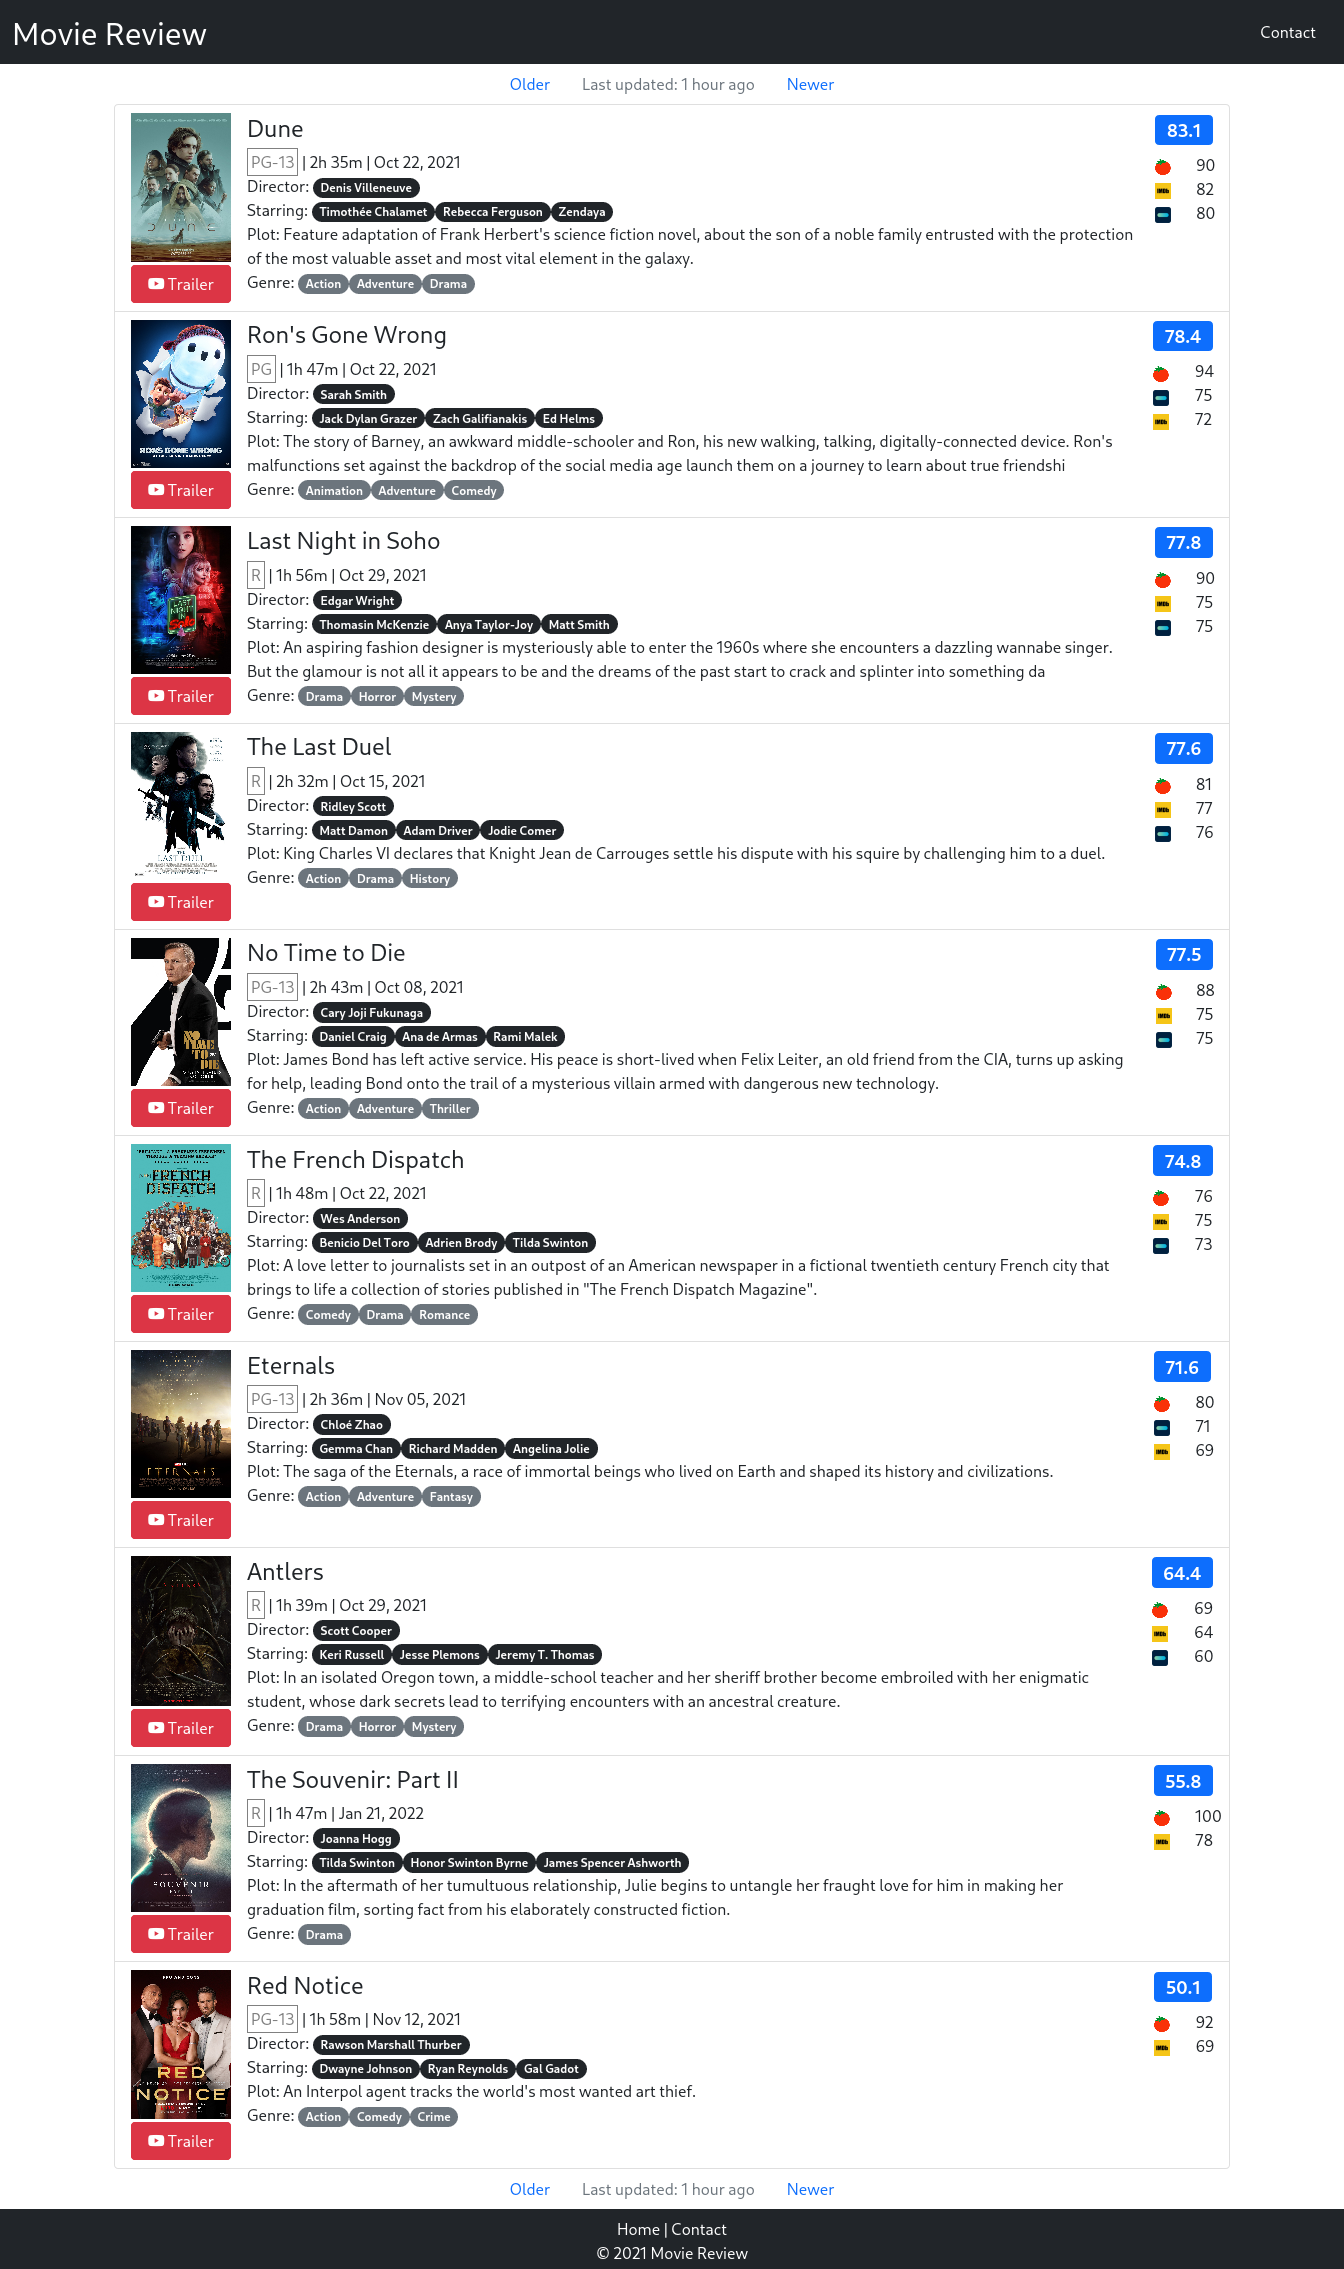
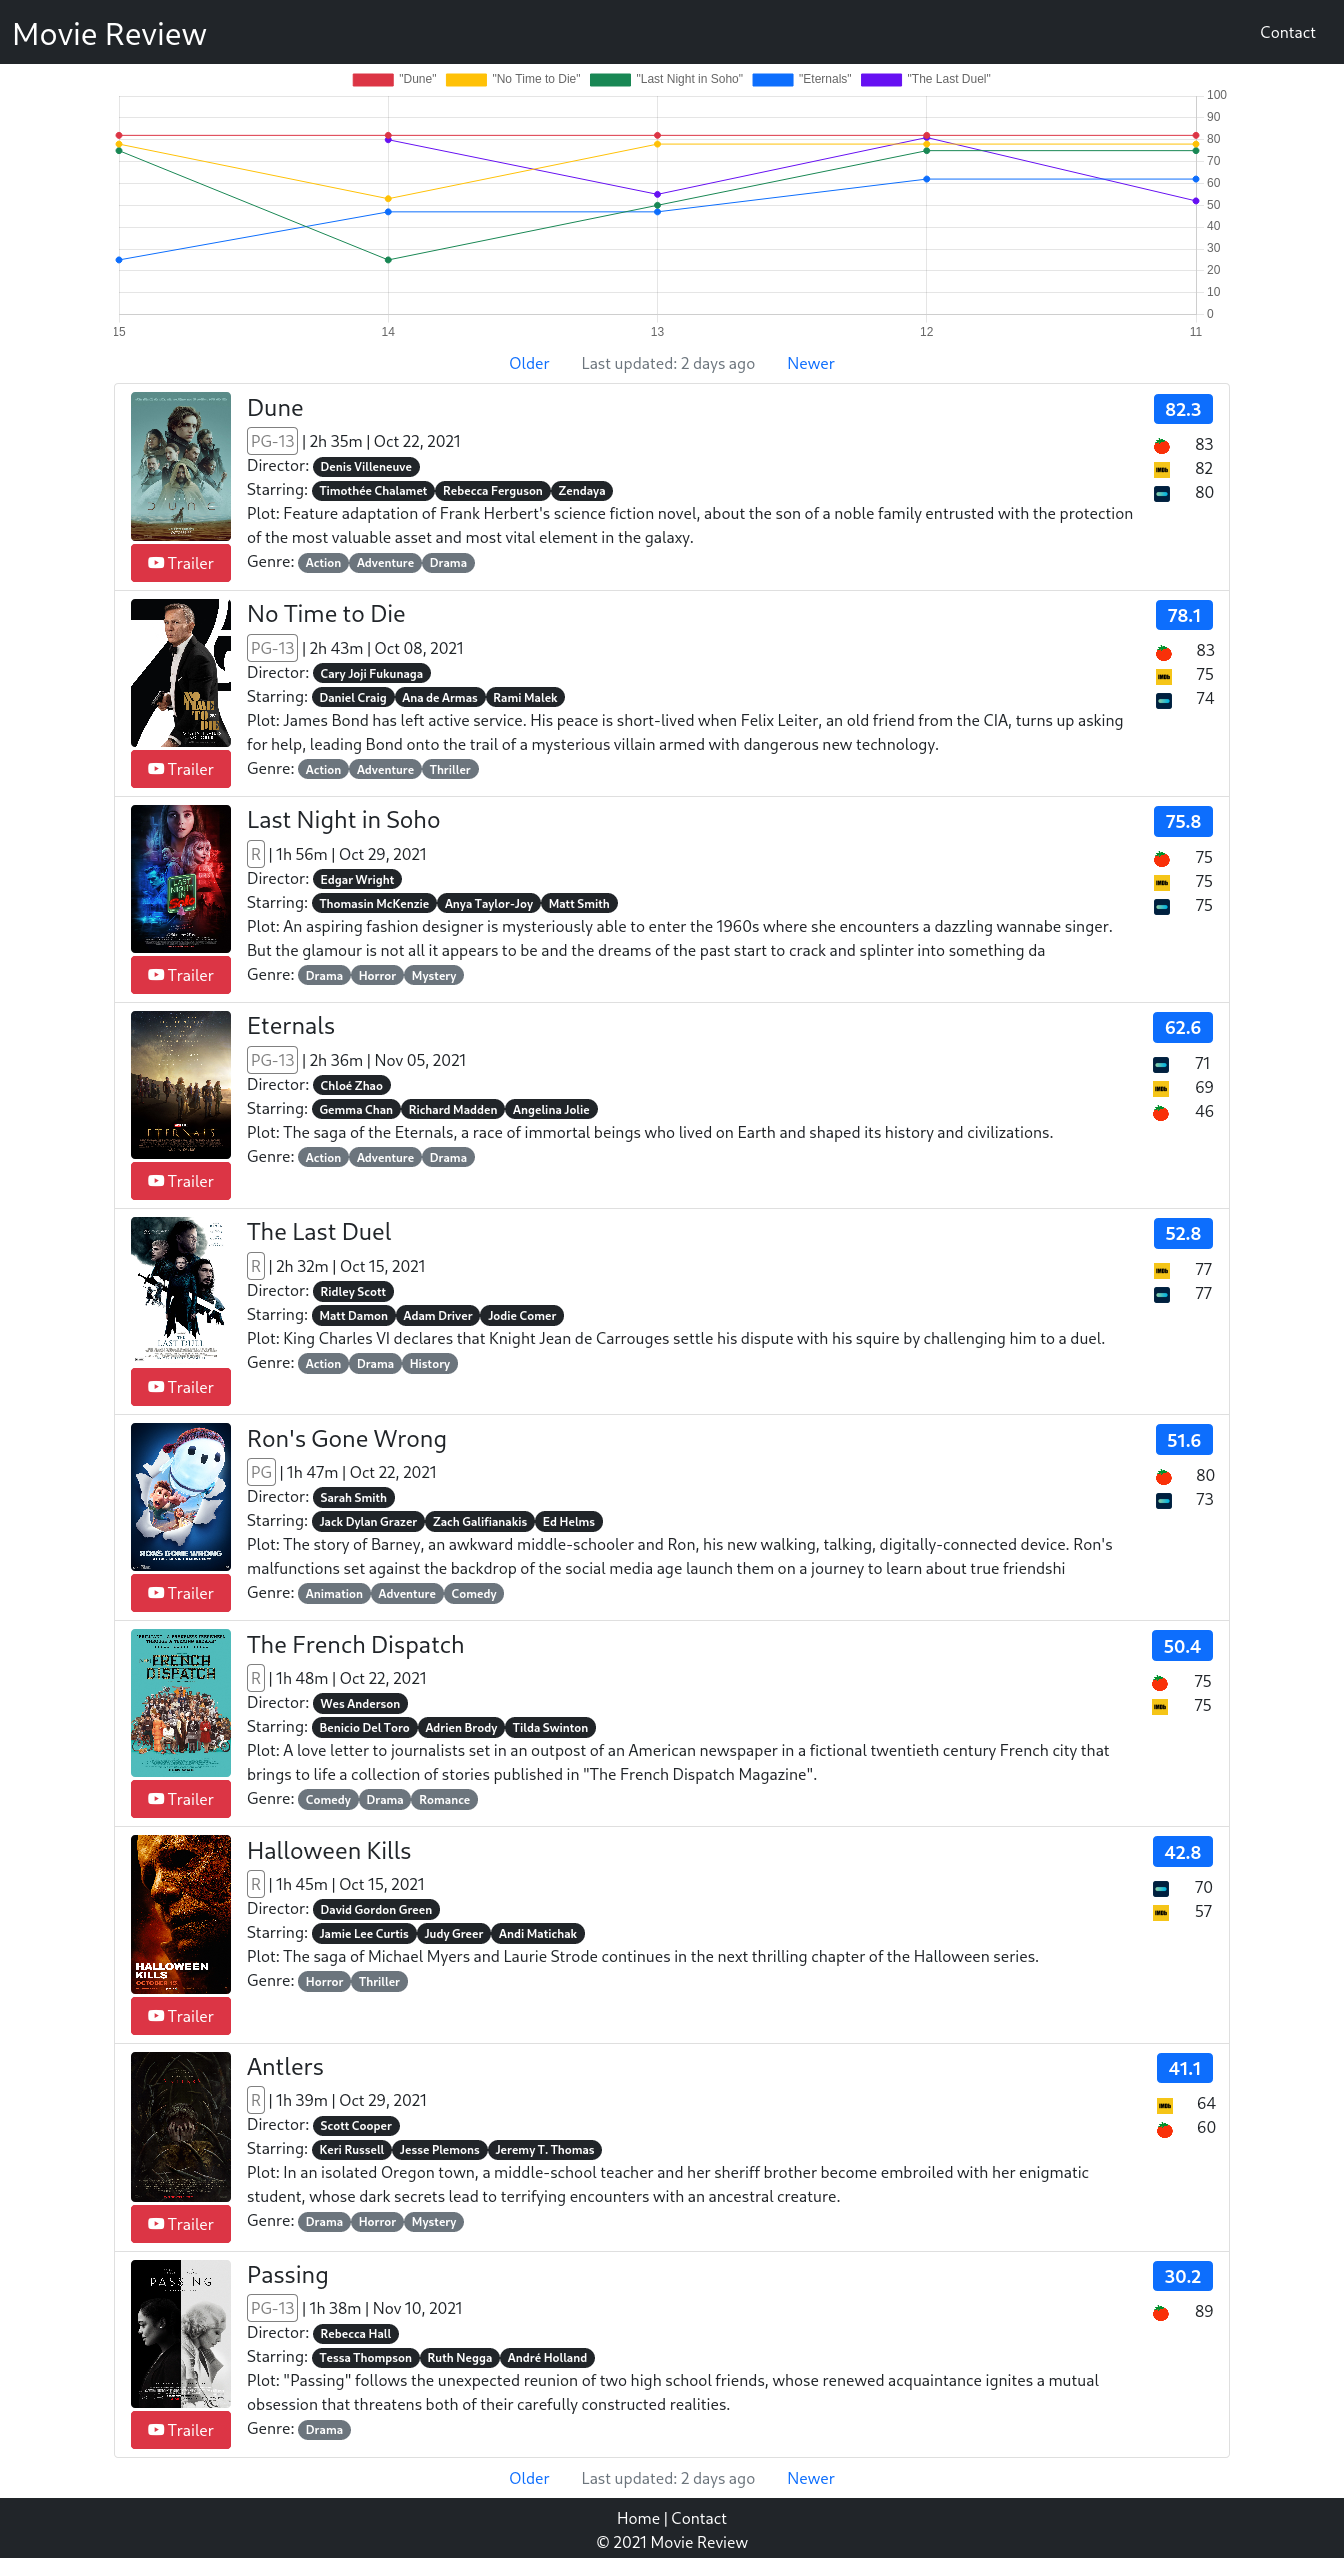
Added working graph

diff --git a/templates/index.html b/templates/index.html
@@ -2,144 +2,151 @@
 {% block title %}Home{% endblock title %}
 {% block body %}
 <script src="https://cdn.jsdelivr.net/npm/chart.js"></script>
-<!--
-    <canvas id="myChart" width="400" height="100"></canvas>
-    <script>
-	const ctx = document.getElementById('myChart').getContext('2d');
-       const myChart = new Chart(ctx, {
-       type: 'bar',
-       data: {
-       labels: ['Red', 'Blue', 'Yellow', 'Green', 'Purple', 'Orange'],
-       datasets: [{
-       label: '# of Votes',
-       data: [12, 19, 3, 5, 2, 3],
-       backgroundColor: [
-       'rgba(255, 99, 132, 0.2)',
-       'rgba(54, 162, 235, 0.2)',
-       'rgba(255, 206, 86, 0.2)',
-       'rgba(75, 192, 192, 0.2)',
-       'rgba(153, 102, 255, 0.2)',
-       'rgba(255, 159, 64, 0.2)'
-       ],
-       borderColor: [
-       'rgba(255, 99, 132, 1)',
-       'rgba(54, 162, 235, 1)',
-       'rgba(255, 206, 86, 1)',
-       'rgba(75, 192, 192, 1)',
-       'rgba(153, 102, 255, 1)',
-       'rgba(255, 159, 64, 1)'
-       ],
-       borderWidth: 1
-       }]
-       },
-       options: {
-       scales: {
-       y: {
-       beginAtZero: true
-       }
-       }
-       }
-       });
-    </script>
-    -->
-    <ul class="nav justify-content-center">
-	<li class="nav-item">
-	    <a class="nav-link" href="{{ page + 1 }}">Older</a>
-	</li>
-	<li class="nav-item">
-	    <a class="nav-link disabled">Last updated: {{ time_ago }}</a>
+<canvas id="myChart" width="400" height="100"></canvas>
+<script>
+    const ctx = document.getElementById('myChart').getContext('2d');
+    const chart = new Chart(ctx, {
+	    type: 'line',
+	    data: {
+		    labels: [
+			    {{ page }},
+			    {{ page+1 }},
+			    {{ page+2 }},
+			    {{ page+3 }},
+			    {{ page+4 }},
+			],
+		    datasets: [
+			    {% for x in graph_x %}
+			    {
+				    label: '{{ x.title | tojson }}',
+					data: {{ x.scores }},
+					backgroundColor: [
+						'rgba({{ x.color }},1)',
+					    ],
+					borderColor: [
+						'rgba({{ x.color }},1)',
+					    ],
+					borderWidth: 1
+				},
+			    {% endfor %}
+			]
+		},
+	    options: {
+		    scales: {
+			    y: {
+				    position: 'right',
+				    beginAtZero: true,
+				    max: 100,
+				},
+			    x: {
+				    reverse: true,
+				}
+			}
+		}
+	});
+    chart.options.animation = false; // disables all animations
+    chart.options.animations.colors = false; // disables animation defined by the collection of 'colors' properties
+    chart.options.animations.x = false; // disables animation defined by the 'x' property
+    chart.options.transitions.active.animation.duration = 0; // disables the animation for 'active' mode
+</script>
+<ul class="nav justify-content-center">
+    <li class="nav-item">
+	<a class="nav-link" href="{{ page + 1 }}">Older</a>
+    </li>
+    <li class="nav-item">
+	<a class="nav-link disabled">Last updated: {{ time_ago }}</a>
 
-	</li>
-	<li class="nav-item">
-	    <a class="nav-link" href="{% if page %}/{{ page-1 }}{% endif %}">Newer</a>
-	</li>
-    </ul>
-    <ul class="list-group">
-	{% for movie in recent.movies[0:10] %}
-	<li class="list-group-item">
-	    <div class="d-flex">
-		<div class="flex-shrink-0">
-		    <a href="https://imdb.com/title/{{ movie.tid }}">
-			<img class="img-fluid" style="width:100px" src="{{ movie.poster }}">
-		    </a>
-		    {% if movie.trailer %}
-			<div class="d-grid gap-2" style="margin-top:3px">
+    </li>
+    <li class="nav-item">
+	<a class="nav-link" href="{% if page %}/{{ page-1 }}{% endif %}">Newer</a>
+    </li>
+</ul>
+<ul class="list-group">
+    {% for movie in recent.movies[0:10] %}
+    <li class="list-group-item">
+	<div class="d-flex">
+	    <div class="flex-shrink-0">
+		<a href="https://imdb.com/title/{{ movie.tid }}">
+		    <img class="rounded img-fluid" style="width:100px" src="{{ movie.poster }}">
+		</a>
+		{% if movie.trailer %}
+		<div class="d-grid gap-2" style="margin-top:3px">
 
-			<!-- Button trigger modal -->
-			<button type="button" class="btn btn-danger" data-bs-toggle="modal" data-bs-target="#modal{{ movie.tid }}">
-			    <i class="bi-youtube"></i> Trailer
-			</button>
-		    </div>
+		    <!-- Button trigger modal -->
+		    <button type="button" class="btn btn-danger" data-bs-toggle="modal" data-bs-target="#modal{{ movie.tid }}">
+			<i class="bi-youtube"></i> Trailer
+		    </button>
+		</div>
 
-		    <!-- Modal -->
-		    <div class="modal fade" id="modal{{ movie.tid }}" tabindex="-1" aria-labelledby="exampleModalLabel" aria-hidden="true">
-			<div class="modal-dialog modal-lg">
-			    <div class="modal-content">
-				<div class="modal-header">
-				    <h5 class="modal-title" id="exampleModalToggleLabel">{{ movie.title }} Trailer</h5>
+		<!-- Modal -->
+		<div class="modal fade" id="modal{{ movie.tid }}" tabindex="-1" aria-labelledby="exampleModalLabel" aria-hidden="true">
+		    <div class="modal-dialog modal-lg">
+			<div class="modal-content">
+			    <div class="modal-header">
+				<h5 class="modal-title" id="exampleModalToggleLabel">{{ movie.title }} Trailer</h5>
 
-				    <button type="button" class="btn-close" data-bs-dismiss="modal" aria-label="Close"></button>
-				</div>
-				<div class="modal-body">
-				    <div class="ratio ratio-16x9">
-					<iframe src="{{ movie.trailer }}"></iframe>
-				    </div>
+				<button type="button" class="btn-close" data-bs-dismiss="modal" aria-label="Close"></button>
+			    </div>
+			    <div class="modal-body">
+				<div class="ratio ratio-16x9">
+				    <iframe src="{{ movie.trailer }}"></iframe>
 				</div>
 			    </div>
 			</div>
 		    </div>
-		    {% endif %}
 		</div>
-		<div class="flex-grow-1 ms-3">
-		    <a href="https://imdb.com/title/{{ movie.tid }}" style="text-decoration: none; color:#212529">
-			<h4>
-			    {{ movie.title }}
-			</h4>
-		    </a>
-		    <span style="border:1px solid; padding:3px; color:gray">{{ movie.rating }}</span> | {{ movie.runtime | conv_runtime }} | {{ movie.release | conv_releasedate }}
-		    <br>
-		    Director: <span class="badge rounded-pill bg-dark">{{ movie.director }}</span>
-		    <br>
-		    {% if movie.cast %}Starring: {% for cast in movie.cast %}<span class="badge rounded-pill bg-dark">{{cast}}</span>{% endfor %}{% endif %}
-		    <br>
-		    Plot: {{ movie.plot | conv_quotes }}
-		    <br>
-		    {% if movie.genre %}
-		    Genre: {% for genre in movie.genre %}<span class="badge rounded-pill bg-secondary">{{genre}}</span>{% endfor %}
-		    {% endif %}
-		    <br>
-		</div>
-		<div class="ms-3">
-		    <div class="row">
-			<h4>
-			    <span class="badge bg-primary">{{ movie.score }}</span>
-			</h4>
-		    </div>
-		    {% for scraper in movie.scrapers | sort(attribute='score', reverse=True) %}
-		    <div class="row">
-			<div class="col-6">
-			    <img src="{{ url_for('static', filename='scrapers/' + scraper.name + '.png')}}" style="height:1em">
-			</div>
-			<div class="col-6">
-			    {{ scraper.score }}
-			</div>
-		    </div>
-		    {% endfor %}
-		</div>
+		{% endif %}
 	    </div>
-	</li>
-	{% endfor %}
-    </ul>
-    <ul class="nav justify-content-center">
-	<li class="nav-item">
-	    <a class="nav-link" href="{{ page + 1 }}">Older</a>
-	</li>
-	<li class="nav-item">
-	    <a class="nav-link disabled">Last updated: {{ time_ago }}</a>
+	    <div class="flex-grow-1 ms-3">
+		<a href="https://imdb.com/title/{{ movie.tid }}" style="text-decoration: none; color:#212529">
+		    <h4>
+			{{ movie.title }}
+		    </h4>
+		</a>
+		<span style="border:1px solid; padding:3px; color:gray; border-radius:.25rem !important">{{ movie.rating }}</span> | {{ movie.runtime | conv_runtime }} | {{ movie.release | conv_releasedate }}
+		<br>
+		Director: <span class="badge rounded-pill bg-dark">{{ movie.director }}</span>
+		<br>
+		{% if movie.cast %}Starring: {% for cast in movie.cast %}<span class="badge rounded-pill bg-dark">{{cast}}</span>{% endfor %}{% endif %}
+		<br>
+		Plot: {{ movie.plot | conv_quotes }}
+		<br>
+		{% if movie.genre %}
+		Genre: {% for genre in movie.genre %}<span class="badge rounded-pill bg-secondary">{{genre}}</span>{% endfor %}
+		{% endif %}
+		<br>
+	    </div>
+	    <div class="ms-3">
+		<div class="row">
+		    <h4>
+			<span class="badge bg-primary">{{ movie.score }}</span>
+		    </h4>
+		</div>
+		{% for scraper in movie.scrapers | sort(attribute='score', reverse=True) %}
+		<div class="row">
+		    <div class="col-6">
+			<img src="{{ url_for('static', filename='scrapers/' + scraper.name + '.png')}}" style="height:1em">
+		    </div>
+		    <div class="col-6">
+			{{ scraper.score }}
+		    </div>
+		</div>
+		{% endfor %}
+	    </div>
+	</div>
+    </li>
+    {% endfor %}
+</ul>
+<ul class="nav justify-content-center">
+    <li class="nav-item">
+	<a class="nav-link" href="{{ page + 1 }}">Older</a>
+    </li>
+    <li class="nav-item">
+	<a class="nav-link disabled">Last updated: {{ time_ago }}</a>
 
-	</li>
-	<li class="nav-item">
-	    <a class="nav-link" href="{% if page %}/{{ page-1 }}{% endif %}">Newer</a>
-	</li>
-    </ul>
-    {% endblock body %}
+    </li>
+    <li class="nav-item">
+	<a class="nav-link" href="{% if page %}/{{ page-1 }}{% endif %}">Newer</a>
+    </li>
+</ul>
+{% endblock body %}

diff --git a/templates/base.html b/templates/base.html
@@ -5,6 +5,7 @@
 	<link href="https://cdn.jsdelivr.net/npm/bootstrap@5.0.2/dist/css/bootstrap.min.css" rel="stylesheet" integrity="sha384-EVSTQN3/azprG1Anm3QDgpJLIm9Nao0Yz1ztcQTwFspd3yD65VohhpuuCOmLASjC" crossorigin="anonymous">
 	<link rel="stylesheet" href="https://cdn.jsdelivr.net/npm/bootstrap-icons@1.7.0/font/bootstrap-icons.css">
 	<link rel="icon" href="{{ url_for('static', filename='favicon.png') }}">
+	<meta charset="UTF-8">
 	<style>
 
 html,

diff --git a/app.py b/app.py
@@ -34,6 +34,14 @@ def conv_quotes(string):
 @app.route("/")
 @app.route("/<int:page>")
 def index(page=0):
+    colors = [
+            '220,53,69', #red
+            '255,193,7', #yellow
+            '25,135,84', #green
+            '13,110,253', #blue
+            '102,16,242', #indigo
+            ]
+
     jsons = sorted(os.listdir('json'), reverse=True)
 
     if page and page > 0:
@@ -46,8 +54,47 @@ def index(page=0):
     except IndexError:
         abort(404)
 
+    top_five = recent.get('movies')[0:5]
+
+    graph_y = list()
+    graph_x = list()
+    color_count = 0
+    for movie in top_five:
+        top_movie = {
+                'title': movie.get('title'),
+                }
+        if(recent.get('unixTime') not in graph_y):
+            graph_y.append(recent.get('unixTime'))
+        scores = list()
+        scores.append(movie.get('score'))
+        count = 1
+        while(count < 5):
+            try:
+                next_recent = json.load(open('json/' + jsons[index+count]))
+                next_movies = next_recent.get('movies')
+                for next_movie in next_movies:
+                    if(next_recent.get('unixTime') not in graph_y):
+                        graph_y.append(next_recent.get('unixTime'))
+                    if(next_movie.get('tid') == movie.get('tid')):
+                        scores.append(next_movie.get('score'))
+                        break
+            except IndexError:
+                break
+            count += 1
+        graph_x.append({
+            'title': movie.get('title'),
+            'scores': scores,
+            'color': colors[color_count]
+            })
+        color_count += 1
+
+
+    from pprint import pprint
+    pprint(graph_y)
+    pprint(graph_x)
     time_ago = ago(recent['unixTime'])
-    return render_template('index.html', recent=recent, page=page, time_ago=time_ago)
+    return render_template('index.html', recent=recent, graph_y=graph_y, graph_x=graph_x, page=page, time_ago=time_ago)
+
 @app.route("/contact")
 def contact():
     return render_template('contact.html')

diff --git a/README.md b/README.md
@@ -10,9 +10,15 @@ Movie Review is a movie score aggregator that pulls movie scores of movies curre
 
 ### Screenshots
 
+##### Home Page
+
 ![homepage](/static/screenshots/homepage.png)
 
+##### Contact Page
+
 ![contactpage](/static/screenshots/contactpage.png)
+
+---
 
 ### Flask Help
 
